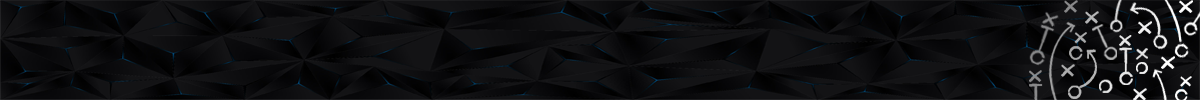
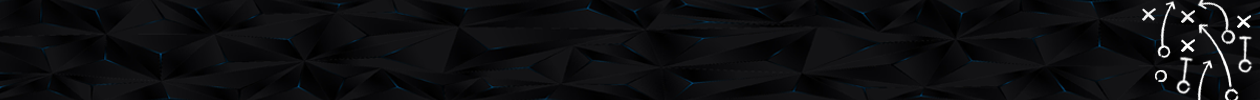
Update Captions for Dark Sites

diff --git a/public/styles/KKL-Dark.css b/public/styles/KKL-Dark.css
@@ -1546,7 +1546,7 @@ caption,
 #commissioner_setup table.two_column_layout th {
   font-size: 1.375rem;
   background: transparent url(https://knuckleheads.netlify.app/images/captions/Caption-Dark-Plays.png);
-  background-position: center left; /*added*/
+  background-position: center right; /*added*/
   /*box-shadow:  inset 0 -1.25rem 1.5rem -0.25rem var(--neutral-blur, gray); /*inset shadow from bottom*/
   padding: 0.5rem;
   text-align: left;

diff --git a/public/styles/MMH-Dark.css b/public/styles/MMH-Dark.css
@@ -1537,7 +1537,7 @@ caption,
 #commissioner_setup table.two_column_layout th {
   font-size: 1.375rem;
   background: transparent url(https://knuckleheads.netlify.app/images/captions/Caption-Dark-Plays.png);
-  background-position: center left; /*added*/
+  background-position: center right; /*added*/
   /*box-shadow:  inset 0 -1.25rem 1.5rem -0.25rem var(--neutral-blur, gray); /*inset shadow from bottom*/
   padding: 0.5rem;
   text-align: left;
